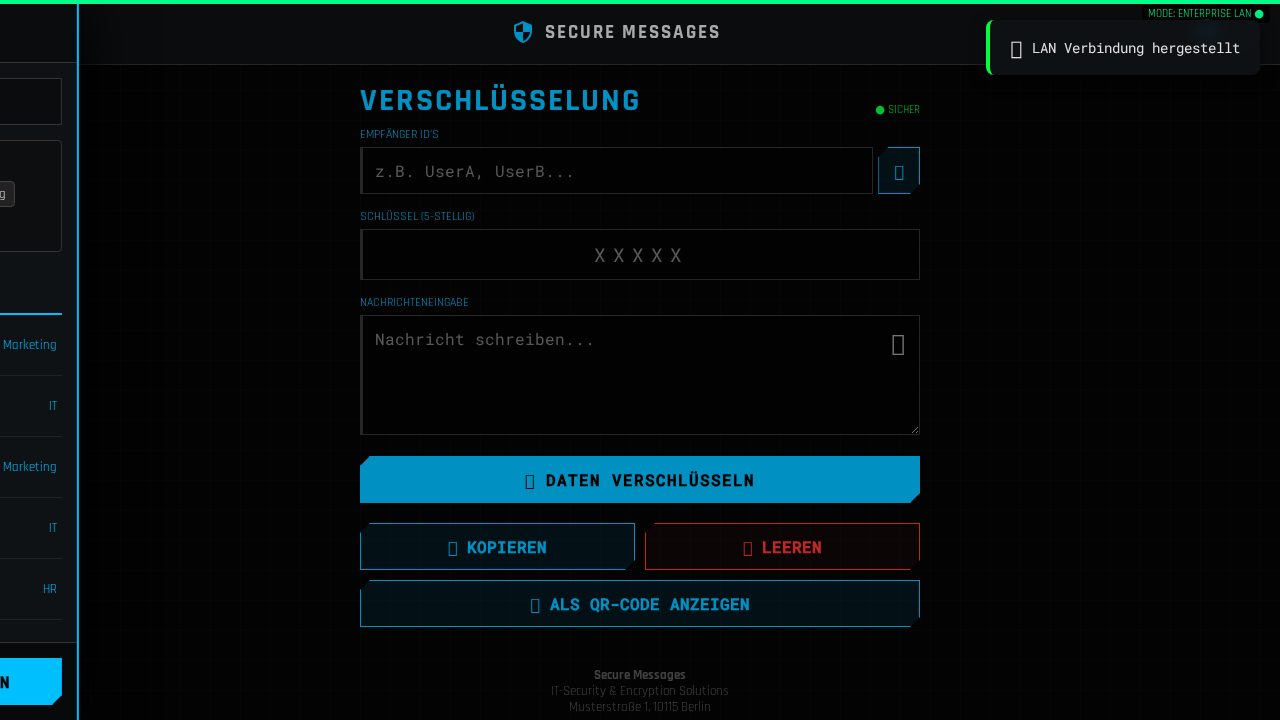
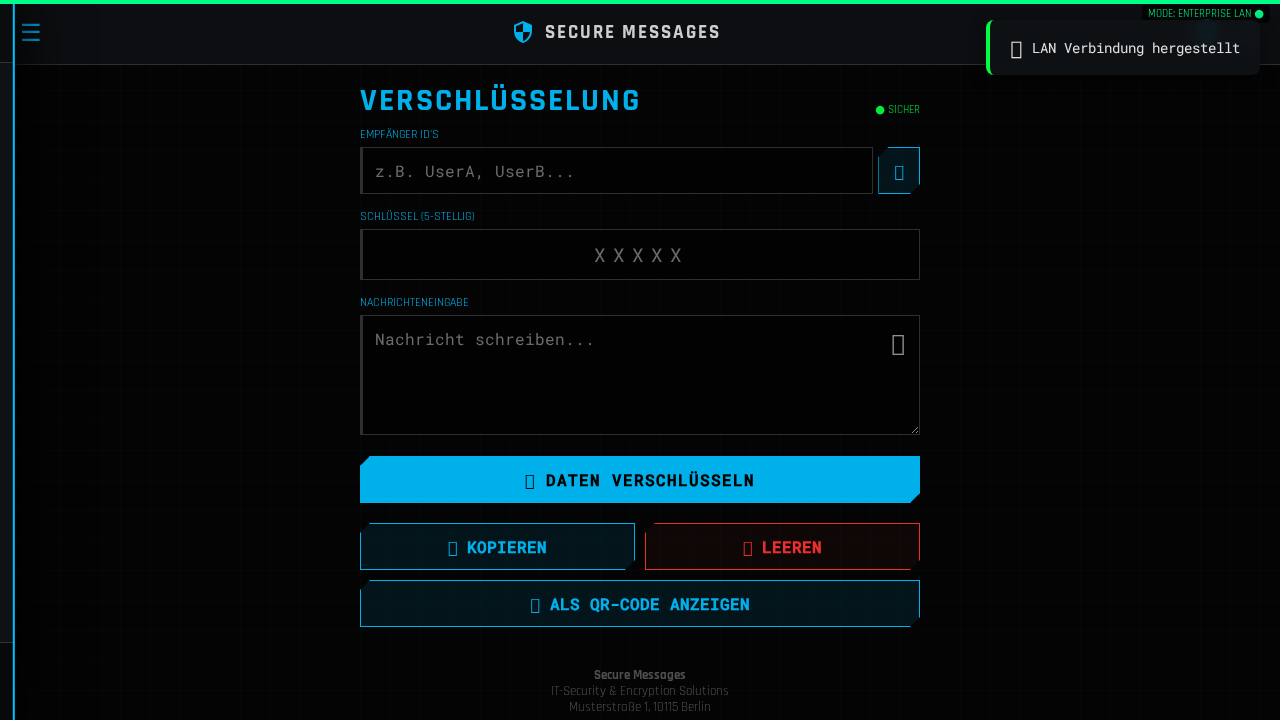
Fix Enterprise Architecture, Login Security, and UI
- UI Fix: Enable window frame in Electron `main.js` to restore OS controls.
- Auth Fix: Inject `X-App-Client` header and custom User-Agent in Electron for reliable platform identification.
- Security: Update `server.js` to strictly enforce `MASTER`/`LIFETIME_USER` licenses in Offline mode and require Desktop Client for Enterprise logins in Cloud mode.
- Frontend: Modify `app.js` to hide Cloud-specific UI elements (Shop, Upgrade, External Help) when in Enterprise/Hub mode.
- Testing: Validated via `verification/test_enterprise.py` with mock sandbox.

diff --git a/public/app.js b/public/app.js
@@ -166,8 +166,29 @@ const StorageAdapter = {
         const lanIpField = document.getElementById('lan_hub_ip');
 
         // Hide Cloud elements if in HUB/Enterprise mode
-        const shopLink = document.querySelector('a[href="shop"]');
-        if(shopLink) shopLink.style.display = (this.mode === 'cloud') ? 'block' : 'none';
+        const isEnterprise = (this.mode === 'hub' || this.mode === 'local'); // local is air-gapped
+
+        if (isEnterprise) {
+            document.body.classList.add('enterprise-mode');
+            // Hide Shop, Upgrade Buttons, External Links
+            document.querySelectorAll('a[href="shop"], #navGuide, #navInfo, #faqBtn').forEach(el => el.style.display = 'none');
+            // Hide renewal options in renewal section if they exist
+            const renewalOptions = document.querySelectorAll('#renewalSection .btn');
+            renewalOptions.forEach(btn => {
+                if(btn.textContent.includes('EUR') || btn.textContent.includes('MONAT')) btn.style.display = 'none';
+            });
+        } else {
+            document.body.classList.remove('enterprise-mode');
+            // Show defaults (some might be hidden by auth logic, but reset display property)
+            // Ideally we only unhide what was hidden above, but user state handles auth-only links.
+            // Safe to reset Shop and FAQ if not auth-dependent logic overrides it immediately.
+            const shopLink = document.querySelector('a[href="shop"]');
+            if(shopLink) shopLink.style.display = 'flex'; // sidebar-item is flex
+            // Other links managed by updateSidebarInfo mostly, but reset visibility just in case
+            document.getElementById('navGuide').style.display = 'flex';
+            document.getElementById('navInfo').style.display = 'flex';
+            document.getElementById('faqBtn').style.display = 'flex';
+        }
 
         if(this.mode === 'cloud') {
             bar.style.background = 'var(--accent-blue)';

diff --git a/server.js b/server.js
@@ -581,13 +581,29 @@ app.post('/api/auth/login', rateLimiter, async (req, res) => {
             return res.status(403).json({ success: false, error: "ACCOUNT_BLOCKED" });
         }
 
-        // --- NEW: Enterprise Access Denial (Cloud Only) ---
-        if (isPostgreSQL) {
-            const productCode = user.product_code || '';
-            const isEnterprise = productCode === 'MASTER' || productCode === 'LIFETIME_USER';
+        // --- PLATFORM & ENTERPRISE CHECKS ---
+        const productCode = user.product_code || '';
+        const isEnterpriseUser = productCode === 'MASTER' || productCode === 'LIFETIME_USER';
 
-            if (isEnterprise) {
+        // Check Platform Header/UA
+        const isDesktopApp = req.headers['x-app-client'] === 'SecureMessages-Desktop' || (req.headers['user-agent'] && req.headers['user-agent'].includes('SecureMessages-Desktop'));
+
+        // 1. CLOUD ACCESS CHECK:
+        // If user is Enterprise/Master, they MUST be on Desktop App (unless in dev mode/localhost?)
+        // Actually, Cloud means accessing via Browser.
+        // If IS_OFFLINE is FALSE (Cloud Mode):
+        if (!IS_OFFLINE) {
+            if (isEnterpriseUser && !isDesktopApp) {
                 return res.status(403).json({ success: false, error: "Enterprise-Lizenz: Nutzung nur über die Desktop-Anwendung gestattet" });
+            }
+        }
+
+        // 2. ENTERPRISE/OFFLINE ACCESS CHECK:
+        // If IS_OFFLINE is TRUE (Enterprise Mode):
+        // Only MASTER or LIFETIME_USER allowed. Standard Users blocked.
+        if (IS_OFFLINE) {
+            if (!isEnterpriseUser) {
+                return res.status(403).json({ success: false, error: "Enterprise-Modus: Nur Enterprise-Lizenzen zulässig." });
             }
         }
         // ------------------------------------------------

diff --git a/main.js b/main.js
@@ -17,13 +17,24 @@ async function createWindow() {
     mainWindow = new BrowserWindow({
         width: 1200,
         height: 800,
-        frame: false, // Frameless as requested
+        frame: true, // Standard Window Controls
         backgroundColor: '#050505',
         webPreferences: {
             preload: path.join(__dirname, 'preload.js'),
             nodeIntegration: false,
             contextIsolation: true
         }
+    });
+
+    // Set Custom User Agent for Platform Identification
+    const userAgent = mainWindow.webContents.getUserAgent() + " SecureMessages-Desktop";
+    mainWindow.webContents.setUserAgent(userAgent);
+
+    // Also inject a custom header for all requests (API calls etc.)
+    const filter = { urls: ['*://*/*'] };
+    mainWindow.webContents.session.webRequest.onBeforeSendHeaders(filter, (details, callback) => {
+        details.requestHeaders['X-App-Client'] = 'SecureMessages-Desktop';
+        callback({ requestHeaders: details.requestHeaders });
     });
 
     // Check for offline certificate
